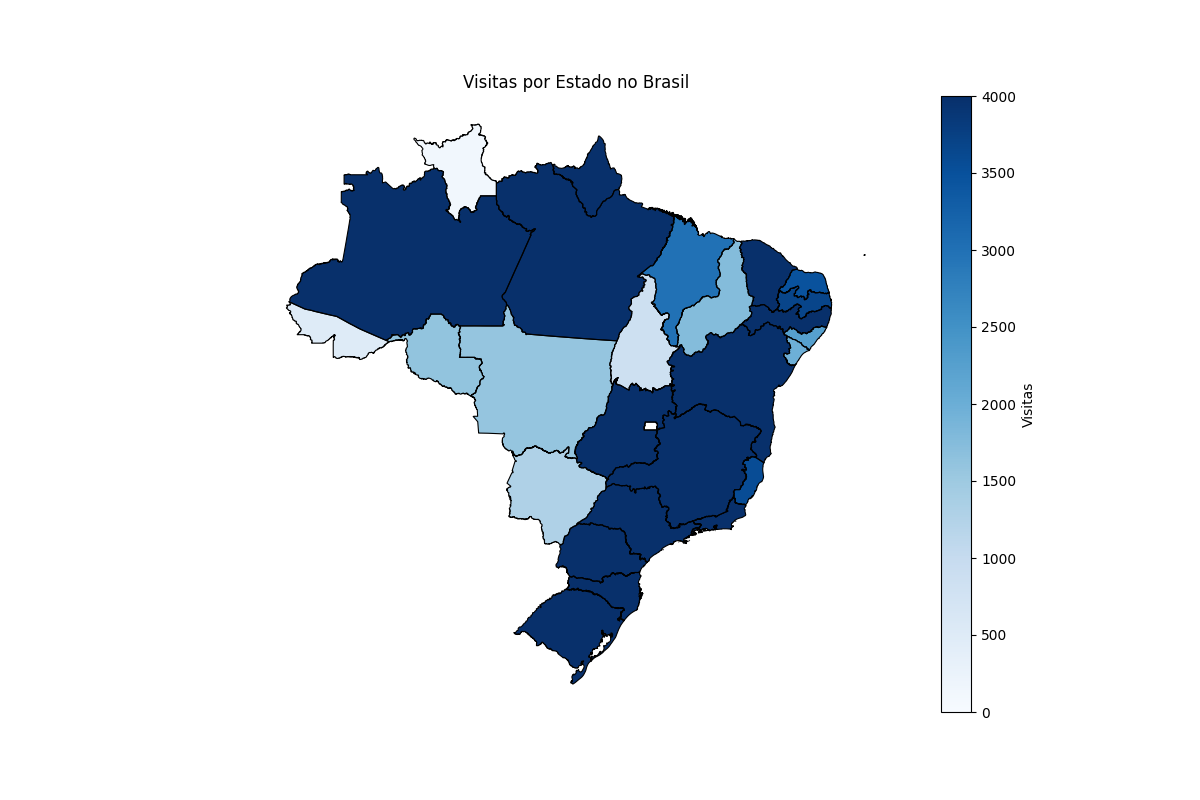
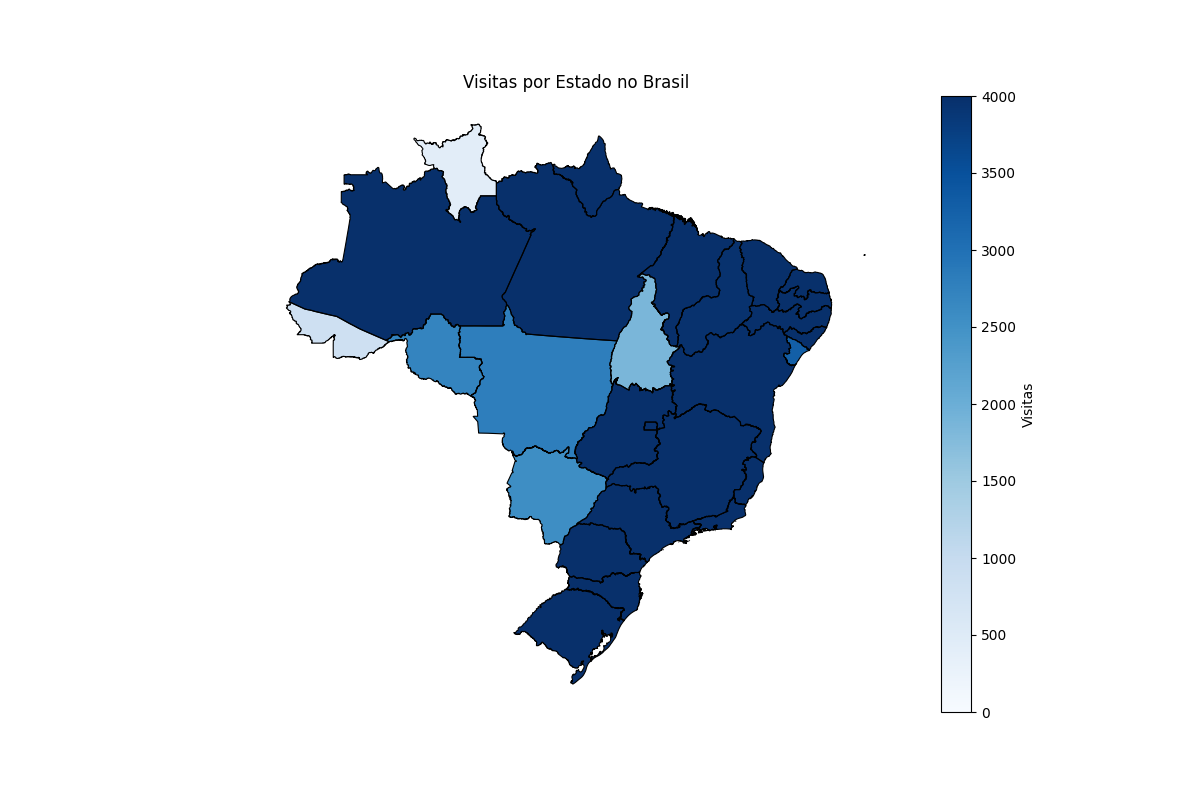
atualizando relatorio

Changed region(s): [[0.3392, 0.2812, 0.7092, 0.6875], [0.6167, 0.5625, 0.6475, 0.625]]

diff --git a/docs/conjuv/relatorio_31-10/relatorio_conjuv_31-10.md b/docs/conjuv/relatorio_31-10/relatorio_conjuv_31-10.md
@@ -132,11 +132,8 @@ Nos próximos relatórios traremos mais detalhes desse uso e dos fluxos realizad
 </p>
 
 ### *Mapa com a Qtd de visitas por UF (Geral)*
-Obs: Os dados de acesso do Distrito Federal não foram contabilizados.
 
 Esse mapa explica a quantidade de acessos por Unidade Federativa do Brasil, durante o período do dia 31/08 até 11/10.
-
-OBS: NÃO TIVEMOS DADOS REFERENTES AO DF
 
 
 <p align="center">
@@ -147,7 +144,6 @@ OBS: NÃO TIVEMOS DADOS REFERENTES AO DF
 ### *Mapa com a Qtd de visitas por UF (Semanal)*
 Esse mapa explica a quantidade de acessos por Unidade Federativa do Brasil, do dia 24/10 até 31/10.
 
-OBS: NÃO TIVEMOS DADOS REFERENTES AO DF
 
 <p align="center">
   <img src="../../relatorio_31-10/assets/conjuv_regiao_semana.png"
